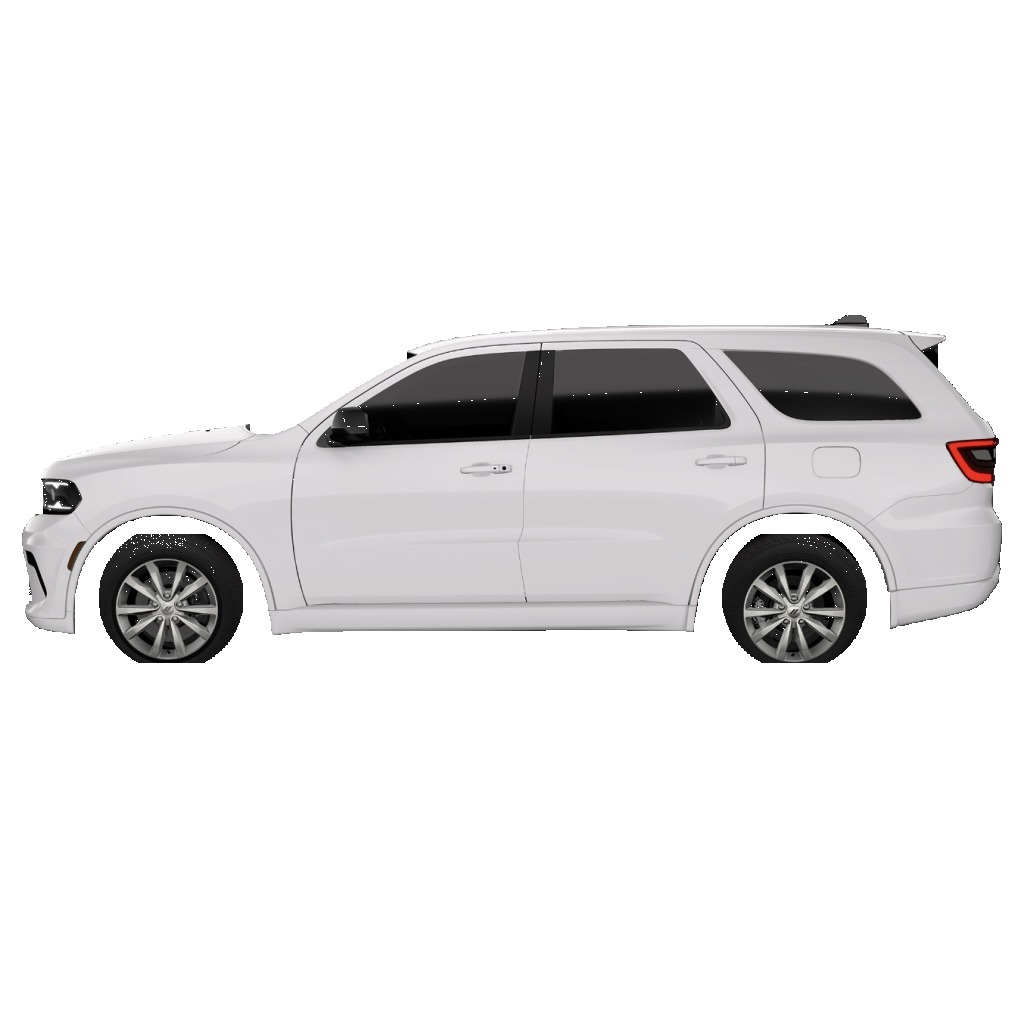
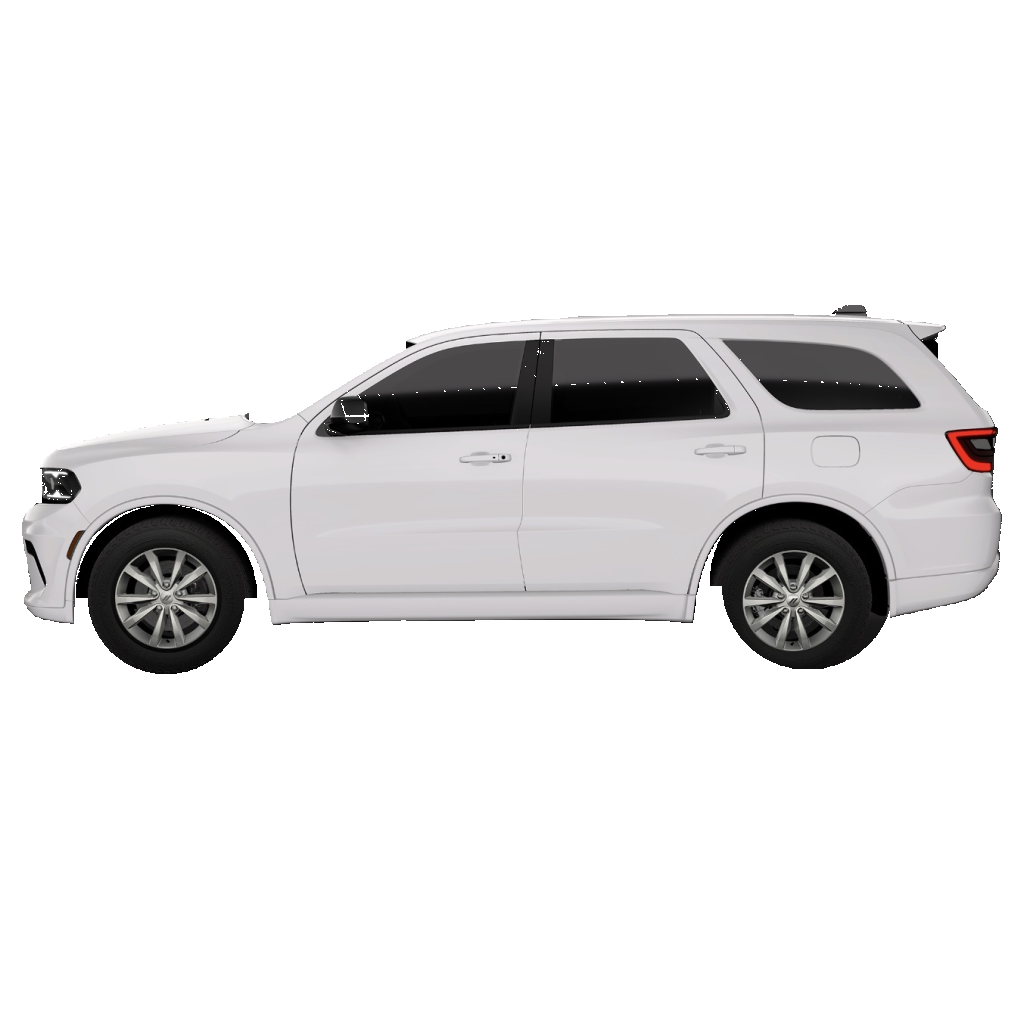
Restore Durango wheel wells from the studio JPEG
The first studio recut clipped both tires flat at y=620 and punched
the arch shoulders. Tires now use the JPEG wheel disks (bottoms ~y 645)
and the photographic liner under the arch. Right is still a flip of Left.
Hatch Open, Rear, Front, and ALGT widths unchanged.

Changed region(s): [[0.0, 0.2812, 1.0, 0.6562], [0.9688, 0.5, 1.0, 0.5625]]

diff --git a/visualizer/index.html b/visualizer/index.html
@@ -196,7 +196,7 @@ select:focus,input[type=text]:focus{box-shadow:0 0 0 2px color-mix(in srgb,var(-
 (function(){
 /* Multi-canvas visualizer. Catalog is shared FedSig SKUs (no invented lights).
    Durango mounts stay as previously signed; trucks have their own snaps. */
-var ASSET_V="studio1";
+var ASSET_V="studio2";
 var FX_V="max4";
 var DURANGO_VIEWS=[
   {id:"front",label:"Front",imgW:"durango_front.png",imgB:"durango_front_black.png"},
